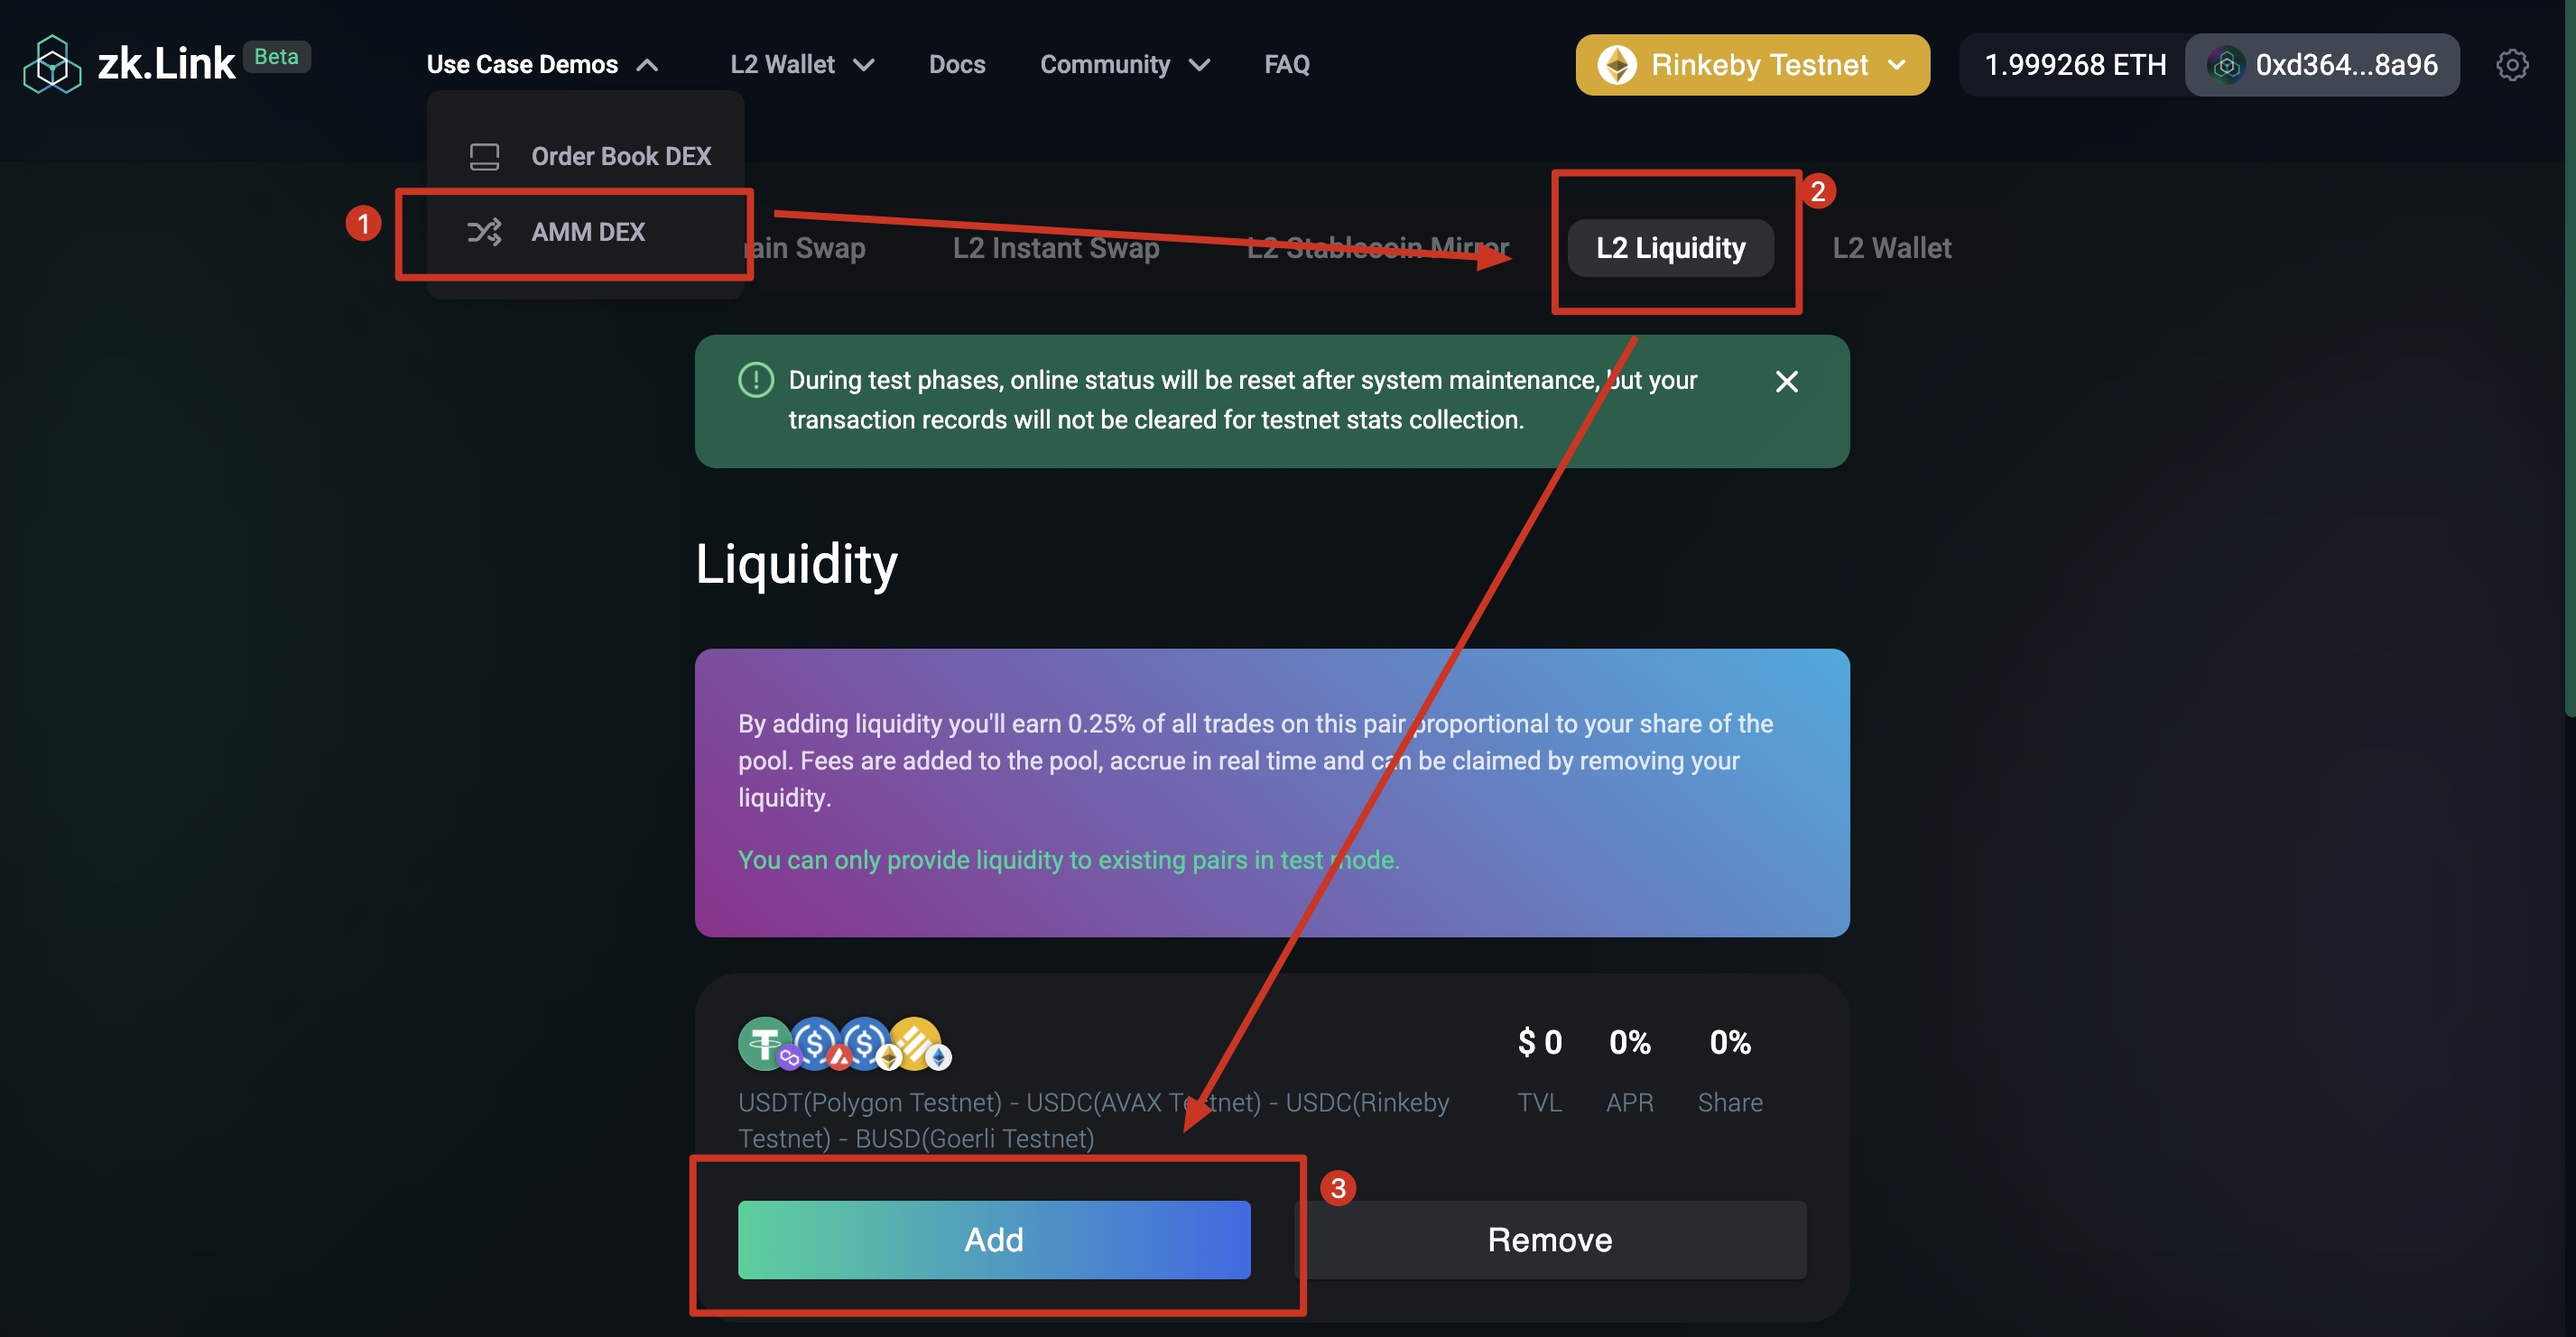
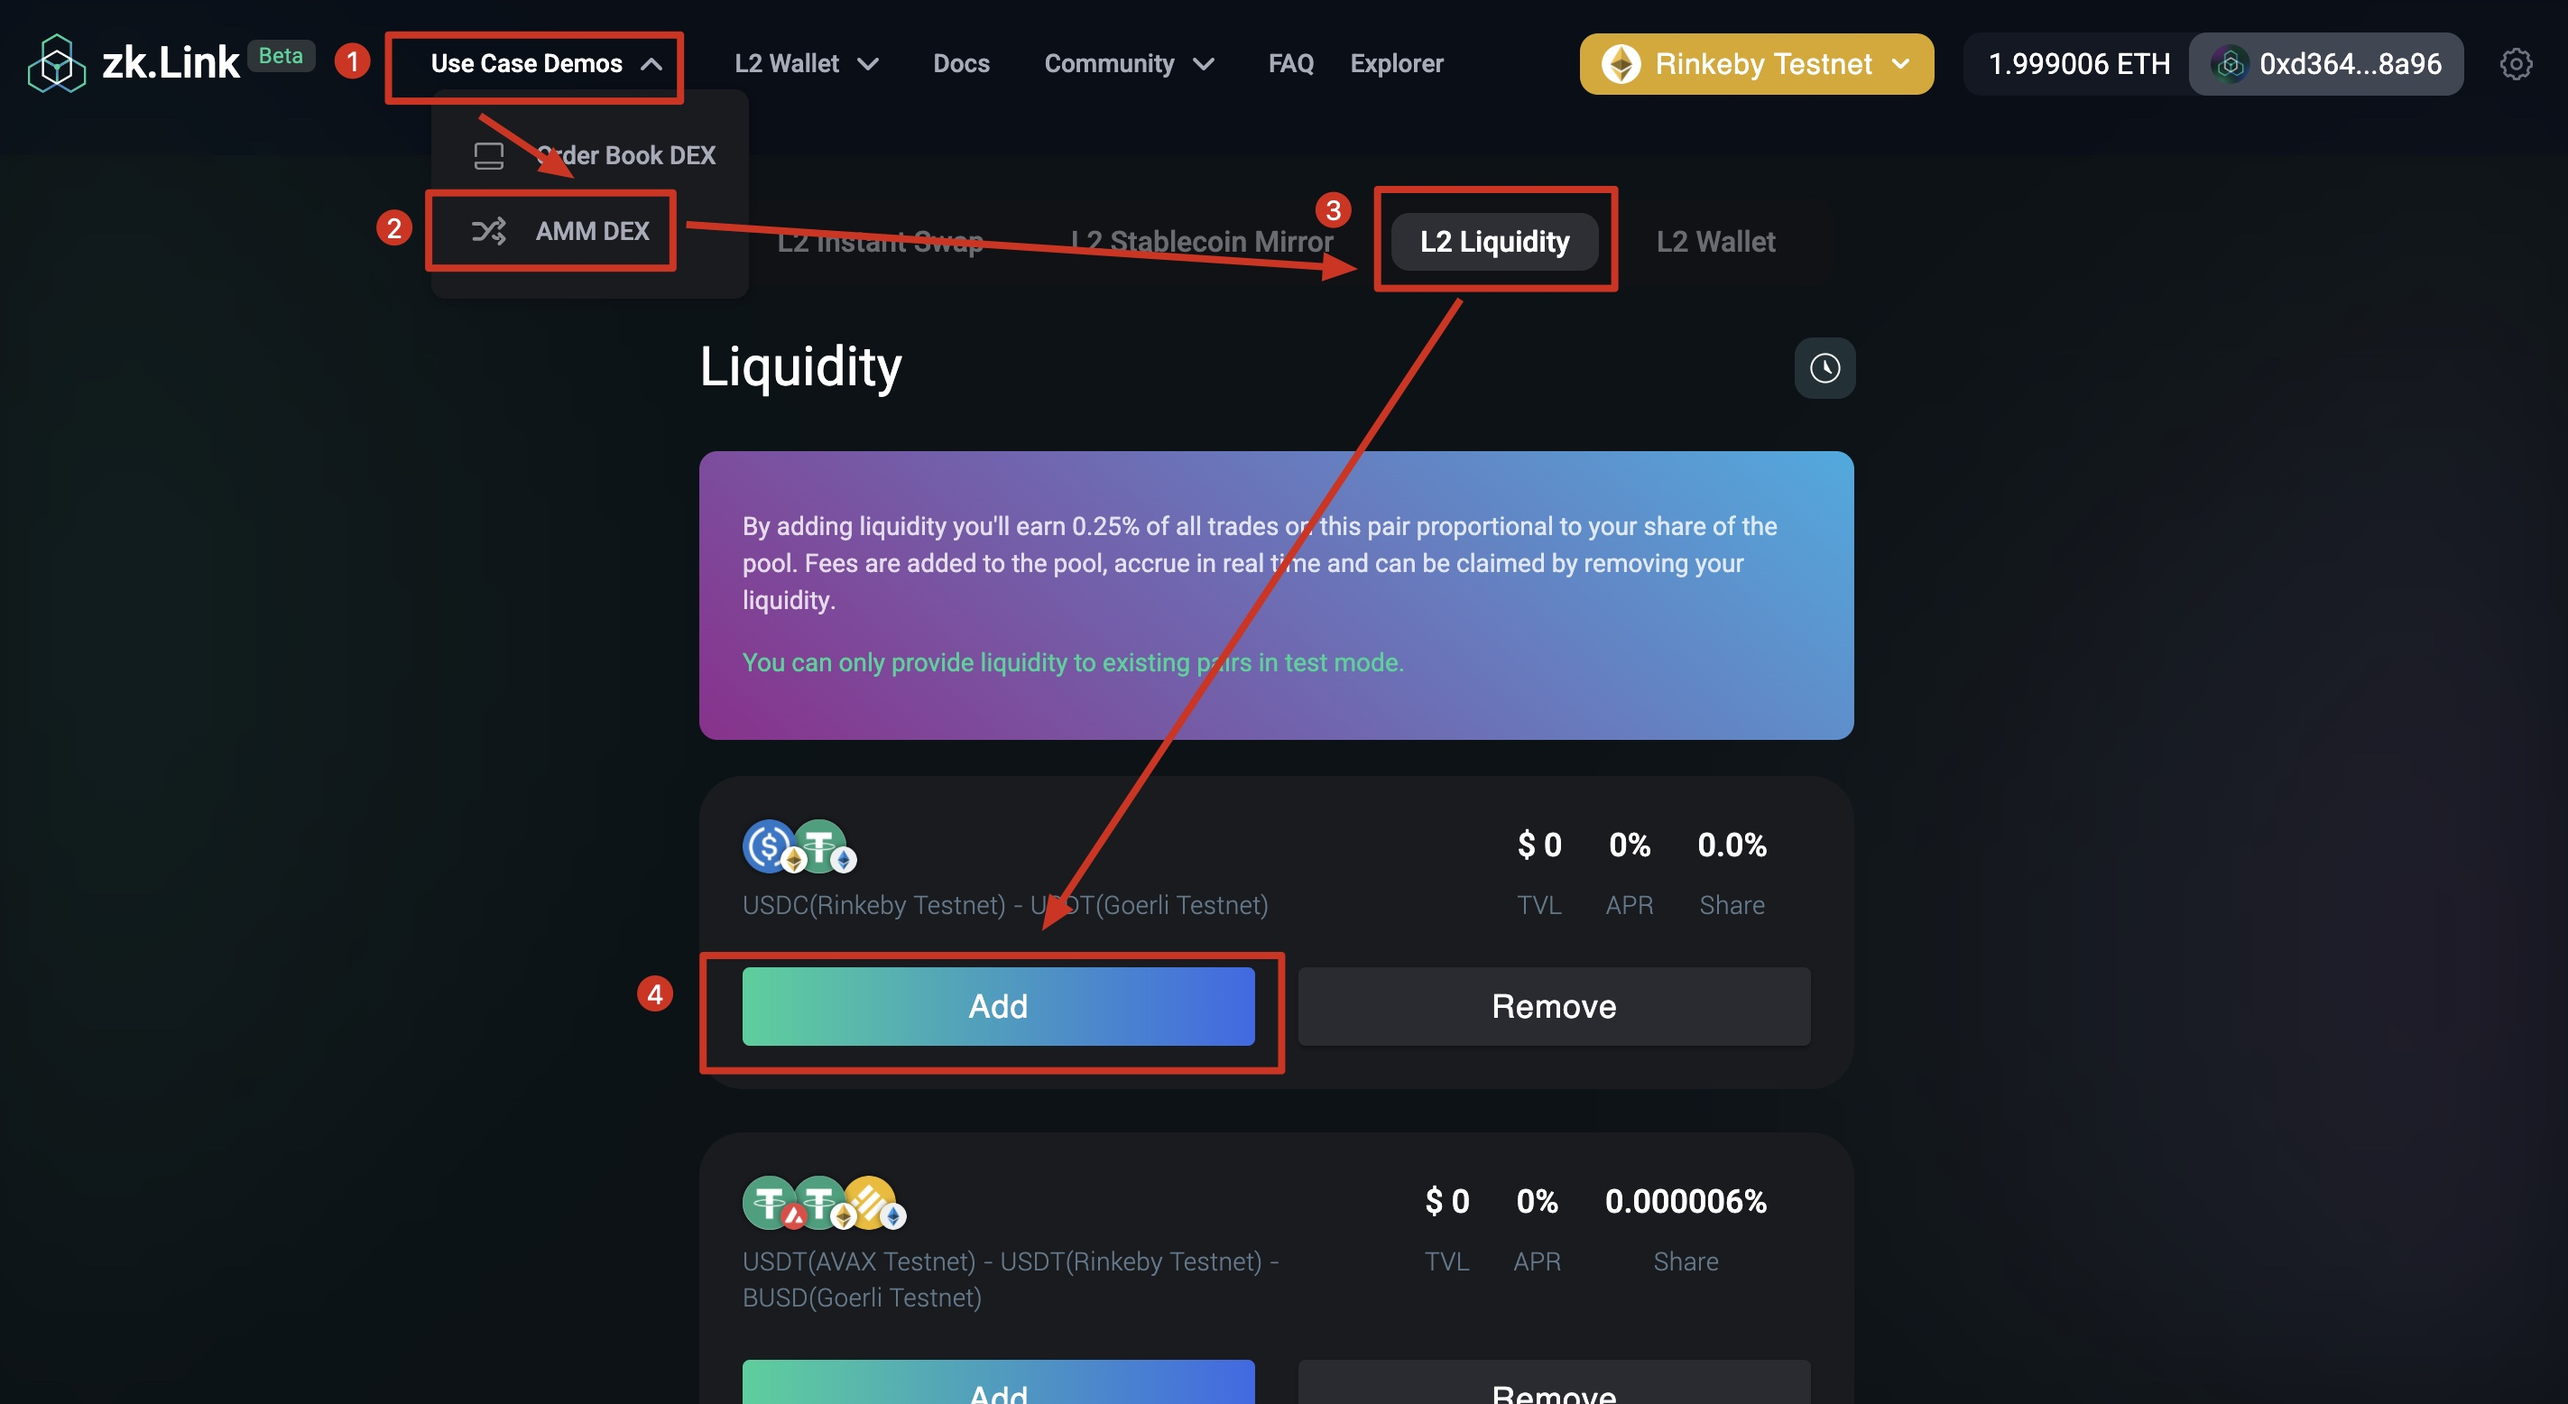
feat: userguide re-write

diff --git a/docs/UserGuide/AMM-demo.md b/docs/UserGuide/AMM-demo.md
@@ -4,28 +4,7 @@ sidebar_position: 1
 # How to use zkLink's AMM DEX Demo
 
 ---
-## Case 1. L1 Cross Chain Swap
-
-a. Switch the MetaMask network to your source chain.
-
-b. Choose your target chain, source token, and target token.
-
-c. Enter the amount that you wish to swap.
-
-d. Enter the wallet address where you wish to swap tokens. The default value is the same as your source address.
-
-e. Confirm the transaction on your Metamask wallet.
-
-f. You can view your transaction status in your "transaction history" as shown below:
-
-![img](../../static/img/TestnetUserGuide/crosschainswap.png)
-
-![img](../../static/img/TestnetUserGuide/history.jpg)
-
-
-## Case 2. Layer2 DEX
-
-### 1. Deposit to  zkLink L2 Wallet
+## 1. Deposit to  zkLink L2 Wallet
 
 <!--- [![Deposit-test](https://res.cloudinary.com/marcomontalbano/image/upload/v1626170035/video_to_markdown/images/youtube--qCgDTI413Dg-c05b58ac6eb4c4700831b2b3070cd403.jpg)](https://www.youtube.com/watch?v=qCgDTI413Dg&list=PL92WZahYyEBfVX51LNtHEPguusVEtQVGo&index=4 "Deposit-test") --->
 
@@ -42,68 +21,25 @@ e. You can view your deposit history at the bottom of the page.
 ![img](../../static/img/orderbook-userguide/deposit-1.jpg)
 ![img](../../static/img/orderbook-userguide/deposit-2.jpg)
 
-### 2. Transfer between L2
-<!--- [![How to transfer assets](https://res.cloudinary.com/marcomontalbano/image/upload/v1626170342/video_to_markdown/images/youtube--uMo9p97Hx0g-c05b58ac6eb4c4700831b2b3070cd403.jpg)](https://www.youtube.com/watch?v=uMo9p97Hx0g&list=PL92WZahYyEBfVX51LNtHEPguusVEtQVGo&index=8 "How to transfer assets") --->
 
-a. Navigate to "Layer2 Wallet" on the top bar, and click "Transfer".
-
-b. Enter the address (another zkLink Layer2 address), then select a designated token, enter the amount, and then click
- "Transfer".
- 
-c. Sign in your wallet.
-
-d. Submit the transaction.
-
-e. Check the status in the transaction history.
-
-![img](../../static/img/TestnetUserGuide/transfer-2.png)
-
-### 3. Withdraw to Layer1
-<!--- [![How to withdraw assets](https://res.cloudinary.com/marcomontalbano/image/upload/v1626170378/video_to_markdown/images/youtube--4o7dJkU8FOI-c05b58ac6eb4c4700831b2b3070cd403.jpg)](https://www.youtube.com/watch?v=4o7dJkU8FOI&list=PL92WZahYyEBfVX51LNtHEPguusVEtQVGo&index=9 "How to withdraw assets") --->
-
-a. Navigate to "Layer2 Wallet" on the top bar, and click "Withdraw".
-
-b. Enter the target wallet address --- select your target chain --- select a token --- enter the amount.
-
-c. Choose between "Fast Withdraw" and "Withdraw". "Fast Withdraw" takes around 2 minutes with a transaction limit, while "Withdraw" takes around 30 mins without a limit. If you choose to "withdraw", you will need to claim your tokens as shown below before you can receive the tokens on your Layer1 wallet.
-
-d. Confirm and sign in your wallet.
-
-![img](../../static/img/TestnetUserGuide/withdraw-2.png)
-![img](../../static/img/TestnetUserGuide/withdraw-3.png)
-![img](../../static/img/TestnetUserGuide/withdraw-4.png)
-
-
-### 4. Add liquidity
-<!---[![How to add liquidity](https://res.cloudinary.com/marcomontalbano/image/upload/v1626170137/video_to_markdown/images/youtube--YK_0__qMoIY-c05b58ac6eb4c4700831b2b3070cd403.jpg)](https://www.youtube.com/watch?v=YK_0__qMoIY&list=PL92WZahYyEBfVX51LNtHEPguusVEtQVGo&index=6 "How to add liquidity")--->
-
+## 2. L2 Instant Swap
 a. Navigate to "Use Case Demos" on the top bar, and click "AMM DEX".
 
-b. Choose "L2 Liquidity" tab, select a pool that you wish to supply liquidity to, and click "Add".
+b. Choose "L2 Instant Swap" tab.
 
-c. Enter the amount of one or more kinds of tokens, and click "Supply".
+c. Choose your source token and enter the amount.
 
-d. Confirm and sign in your wallet.
+d. Choose your target token and confirm the fees.
 
-![img](../../static/img/TestnetUserGuide/add-liquidity.jpg)
-![img](../../static/img/TestnetUserGuide/add-liquidity-2.jpg)
+e. click "Swap".
 
+f. Confirm and sign in your wallet.
 
-### 5. Remove liquidity
-<!---[![How to remove liquidity](https://res.cloudinary.com/marcomontalbano/image/upload/v1626170296/video_to_markdown/images/youtube--7GX6OH_xW38-c05b58ac6eb4c4700831b2b3070cd403.jpg)](https://www.youtube.com/watch?v=7GX6OH_xW38&list=PL92WZahYyEBfVX51LNtHEPguusVEtQVGo&index=7 "How to remove liquidity")-->
-
-a. Navigate to "Use Case Demos" on the top bar, and click "AMM DEX".
-
-b. Choose "L2 Liquidity" tab, select a pool that you wish to supply liquidity to, and click "Remove".
-
-c. Slide and choose a percentage that you want to remove, and click "Remove".
-
-d. Confirm and sign in your wallet.
-
-![img](../../static/img/TestnetUserGuide/remove-liquidity.jpg)
+![img](../../static/img/TestnetUserGuide/instantswap.jpg)
 
 
-### 6. L2 Stablecoin Mirror
+
+## 3. L2 Stablecoin Mirror
 a. Navigate to "Use Case Demos" on the top bar, and click "AMM DEX".
 
 b. Choose "L2 Stablecoin Mirror" tab.
@@ -115,3 +51,75 @@ d. Enter the amount and click "Swap".
 e. Confirm and sign in your wallet.
 
 ![img](../../static/img/TestnetUserGuide/mirror-1.png)
+
+
+
+## 4. L2 Liquidity
+### 4.1 Add Liquidity
+<!---[![How to add liquidity](https://res.cloudinary.com/marcomontalbano/image/upload/v1626170137/video_to_markdown/images/youtube--YK_0__qMoIY-c05b58ac6eb4c4700831b2b3070cd403.jpg)](https://www.youtube.com/watch?v=YK_0__qMoIY&list=PL92WZahYyEBfVX51LNtHEPguusVEtQVGo&index=6 "How to add liquidity")--->
+
+a. Navigate to "Use Case Demos" on the top bar, and click "AMM DEX".
+
+b. Choose "L2 Liquidity" tab, select a pool that you wish to supply liquidity to, and click "Add".
+
+c. Choose your preferred strategy.
+
+d. Enter the amount of one or more kinds of tokens, and click "Supply".
+
+e. Confirm and sign in your wallet.
+
+![img](../../static/img/TestnetUserGuide/add-liquidity.jpg)
+![img](../../static/img/TestnetUserGuide/add-liquidity-2.jpg)
+
+
+### 4.2 Remove Liquidity
+<!---[![How to remove liquidity](https://res.cloudinary.com/marcomontalbano/image/upload/v1626170296/video_to_markdown/images/youtube--7GX6OH_xW38-c05b58ac6eb4c4700831b2b3070cd403.jpg)](https://www.youtube.com/watch?v=7GX6OH_xW38&list=PL92WZahYyEBfVX51LNtHEPguusVEtQVGo&index=7 "How to remove liquidity")-->
+
+a. Navigate to "Use Case Demos" on the top bar, and click "AMM DEX".
+
+b. Choose "L2 Liquidity" tab, select a pool that you wish to remove liquidity to, and click "Remove".
+
+c. Slide and choose a percentage that you want to remove, and click "Remove".
+
+d. Confirm and sign in your wallet.
+
+![img](../../static/img/TestnetUserGuide/remove-liquidity1.jpg)
+![img](../../static/img/TestnetUserGuide/remove-liquidity.jpg)
+
+## 5. L2 Wallet
+
+### 5.1 Transfer between L2
+<!--- [![How to transfer assets](https://res.cloudinary.com/marcomontalbano/image/upload/v1626170342/video_to_markdown/images/youtube--uMo9p97Hx0g-c05b58ac6eb4c4700831b2b3070cd403.jpg)](https://www.youtube.com/watch?v=uMo9p97Hx0g&list=PL92WZahYyEBfVX51LNtHEPguusVEtQVGo&index=8 "How to transfer assets") --->
+
+a. Navigate to "Layer2 Wallet" on the top bar, and click "Transfer".
+
+b. Enter the target address (a zkLink Layer2 address).
+
+c. Select a designated token and enter the amount.
+
+d. Confirm the fee and click "Transfer".
+
+e. Sign in your wallet.
+
+f. Submit the transaction.
+
+g. Check the status in the transaction history.
+
+![img](../../static/img/TestnetUserGuide/transfer-2.jpg)
+
+### 5.2 Withdraw to Layer1
+<!--- [![How to withdraw assets](https://res.cloudinary.com/marcomontalbano/image/upload/v1626170378/video_to_markdown/images/youtube--4o7dJkU8FOI-c05b58ac6eb4c4700831b2b3070cd403.jpg)](https://www.youtube.com/watch?v=4o7dJkU8FOI&list=PL92WZahYyEBfVX51LNtHEPguusVEtQVGo&index=9 "How to withdraw assets") --->
+
+a. Navigate to "Layer2 Wallet" on the top bar, and click "Withdraw".
+
+b. Enter the target wallet address, the preset address is your L1 Metamask address.
+
+c. Select your target chain
+
+d. Select your target token and enter the amount you with to withdraw to L1.
+
+e. Confirm the fees and click "Withdraw".
+
+f. Sign in your wallet.
+
+![img](../../static/img/TestnetUserGuide/withdraw-5.jpg)
